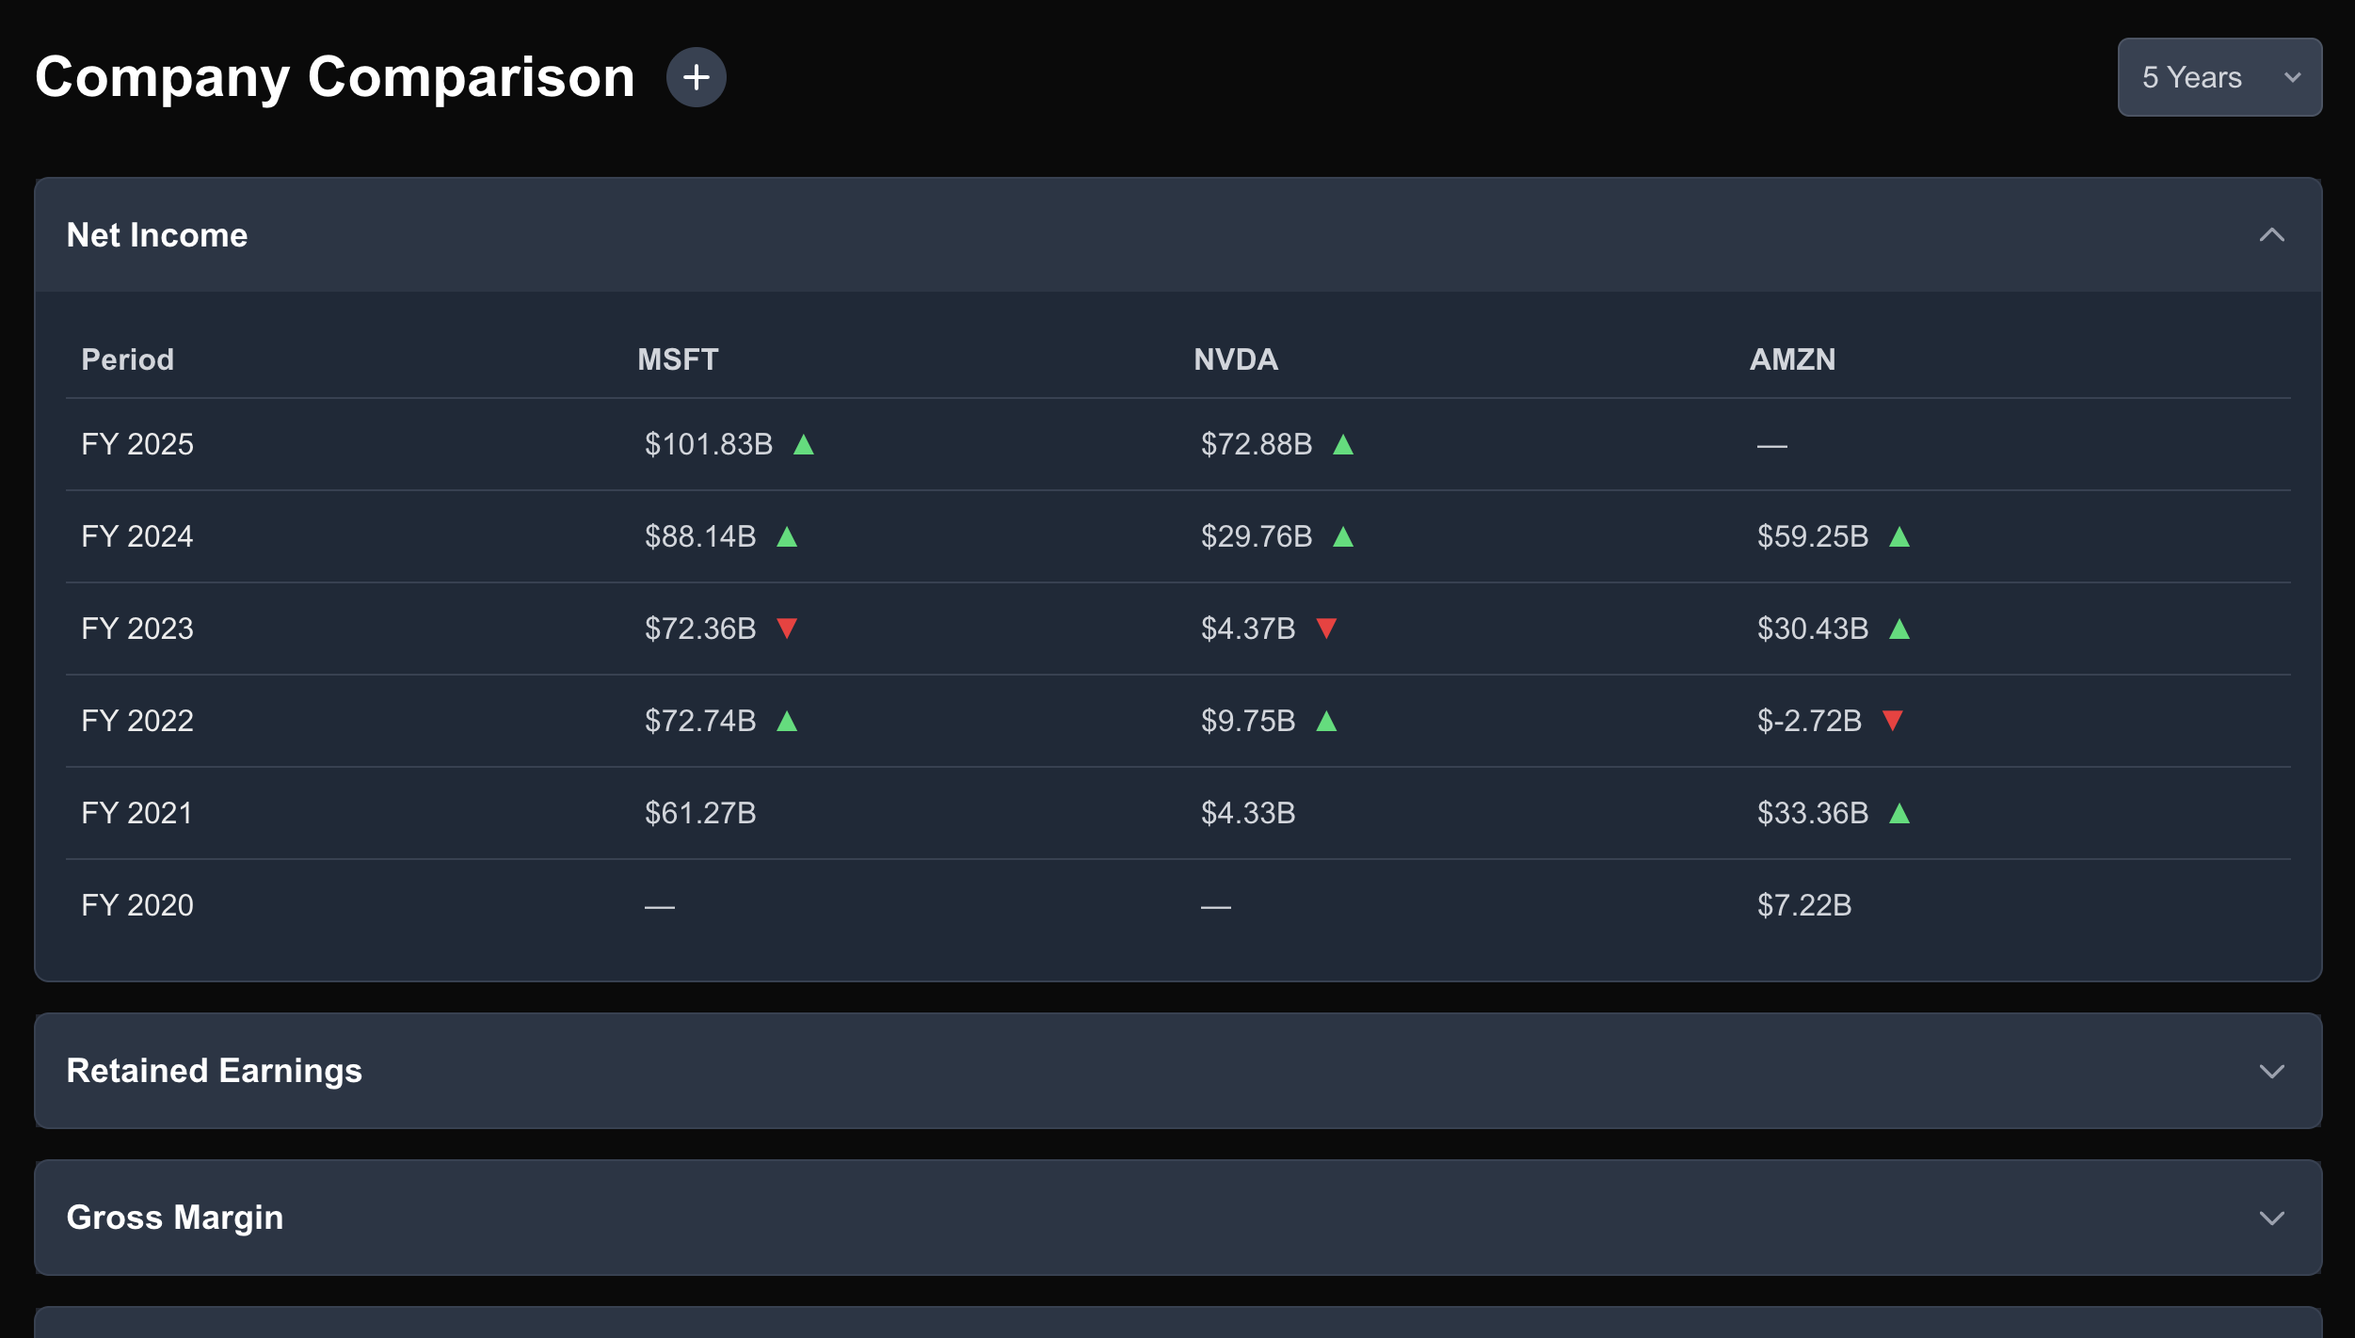
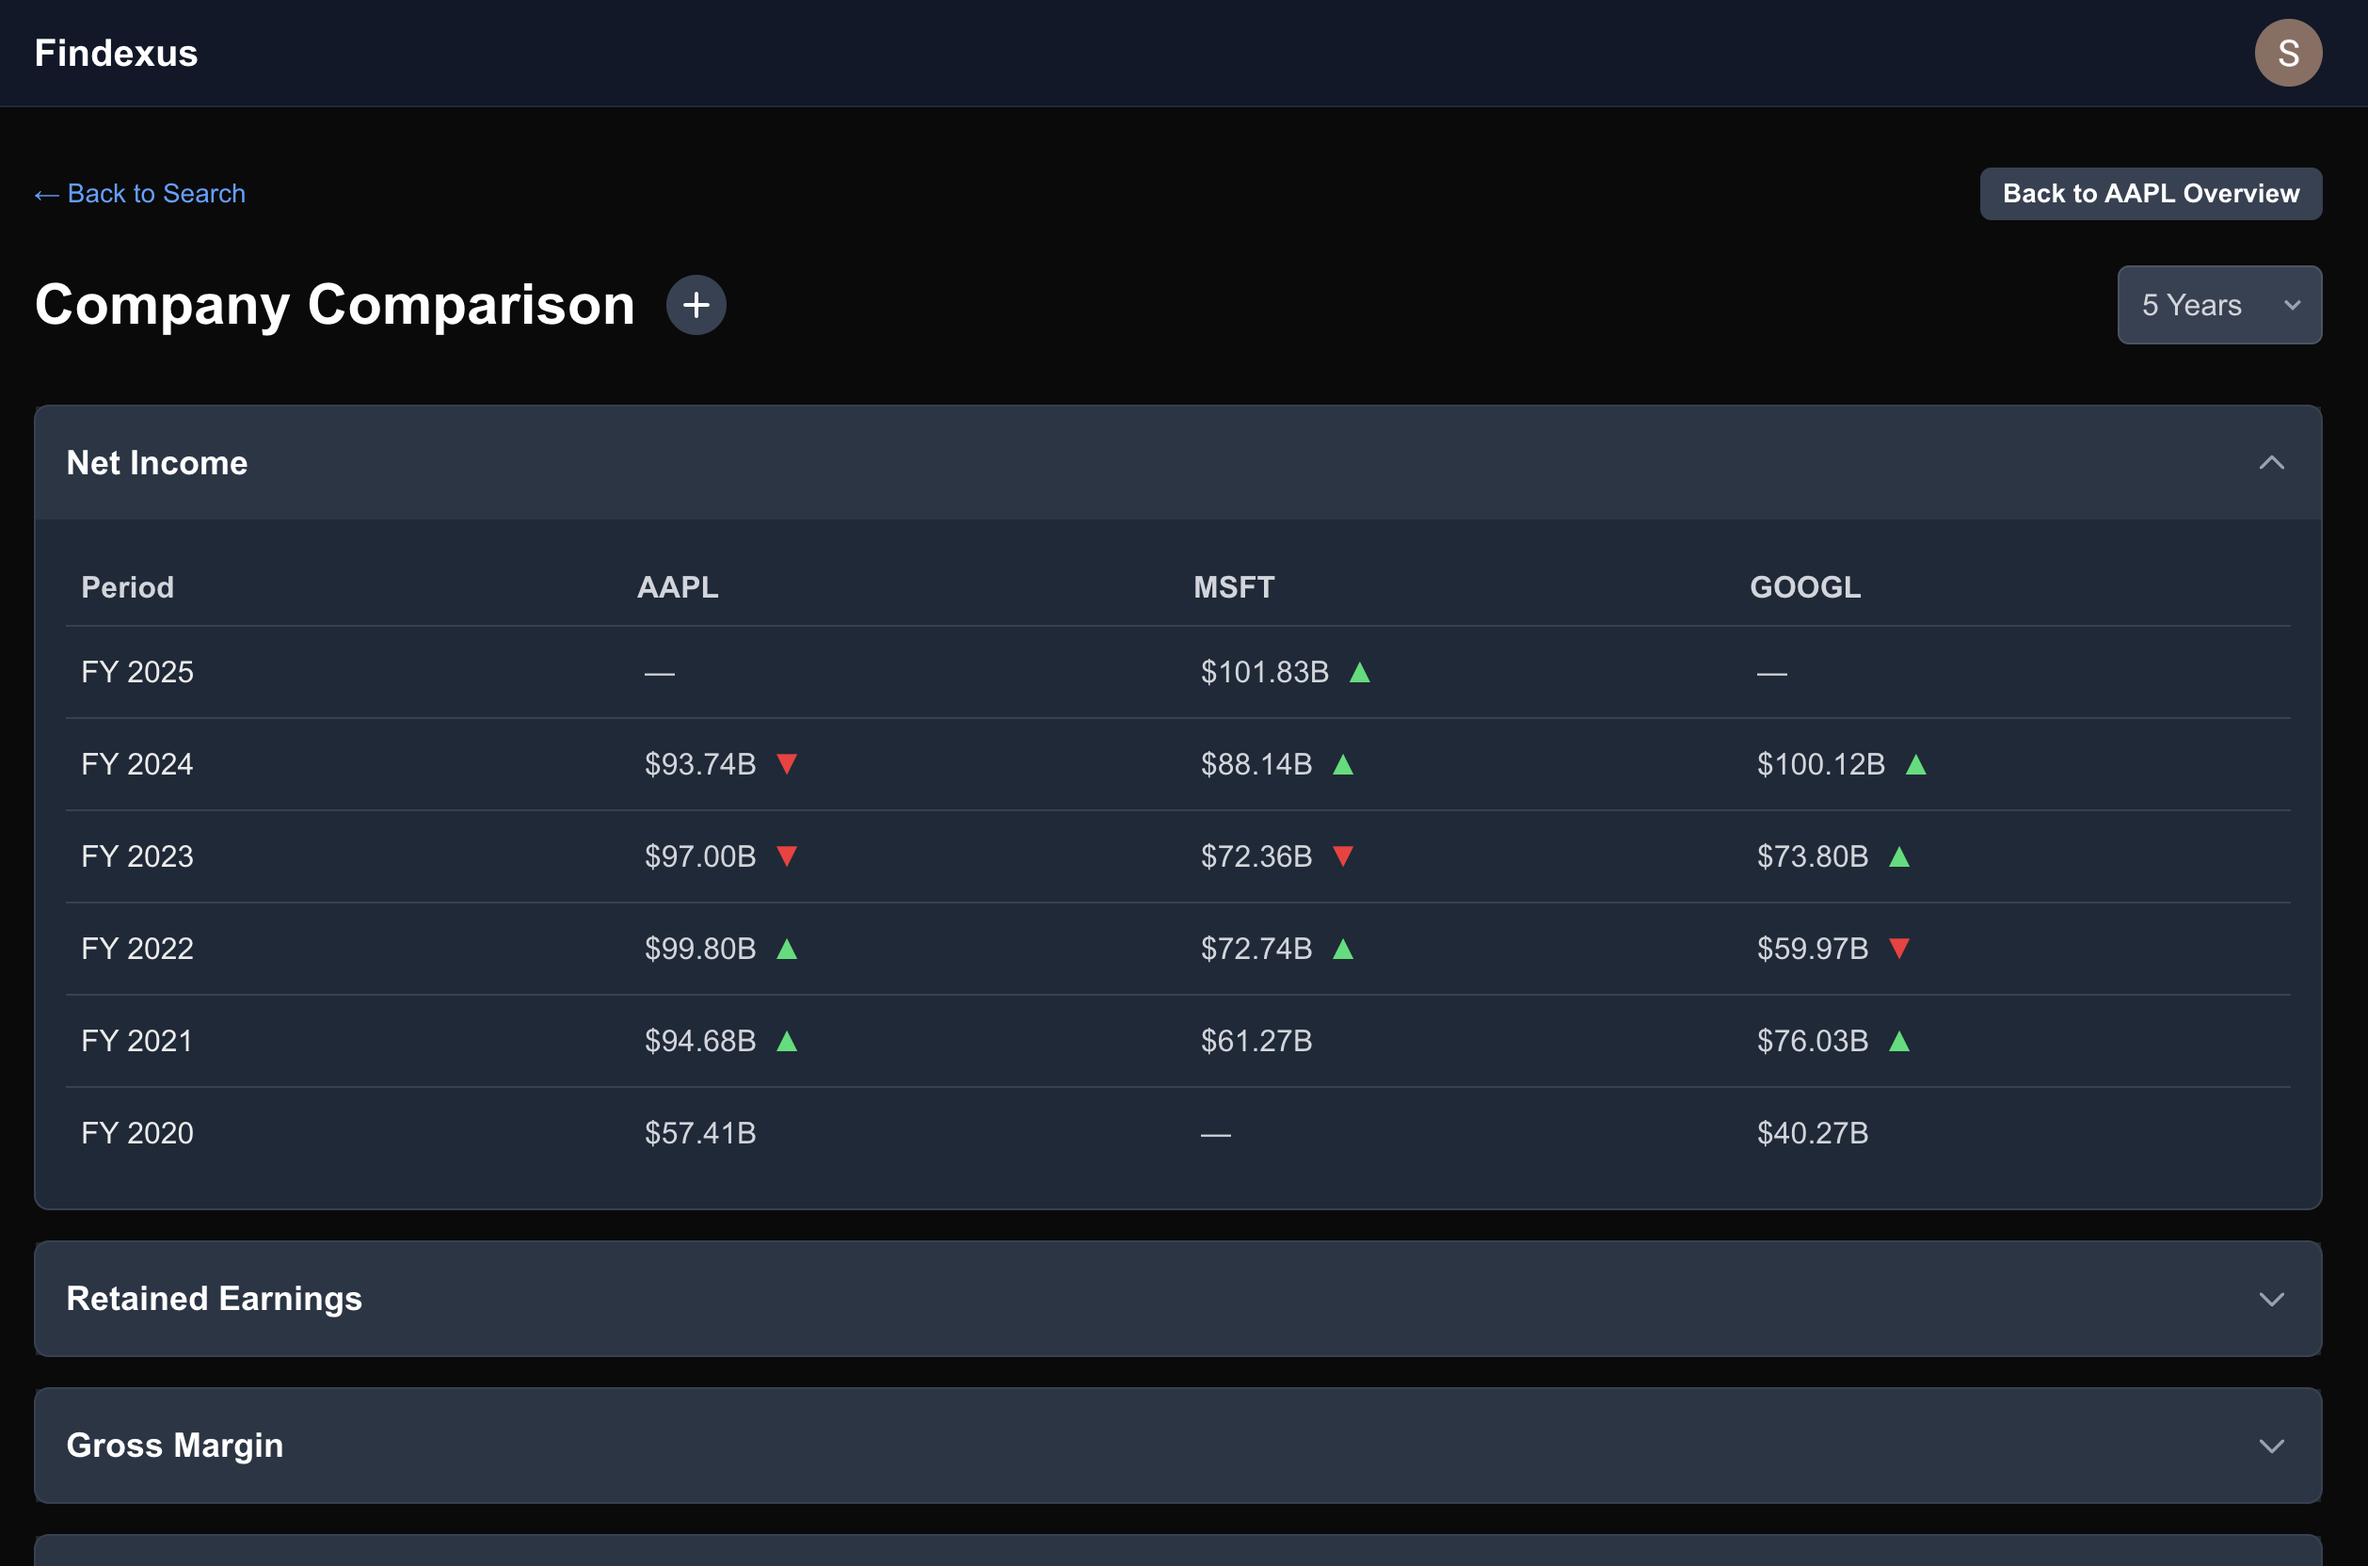
unnec

diff --git a/client/src/components/DisclaimerBanner.tsx b/client/src/components/DisclaimerBanner.tsx
@@ -1,19 +1,17 @@
 'use client';
 
-// This component no longer needs its own state hooks.
-
 interface DisclaimerBannerProps {
-    show: boolean; // NEW: The parent now tells this component whether to be visible.
+    show: boolean; // The parent now tells this component whether to be visible
     onAcknowledge: () => void;
 }
 
 export default function DisclaimerBanner({ show, onAcknowledge }: DisclaimerBannerProps) {
-    // If the parent says not to show, render nothing.
+    // If the parent says not to show, render nothing
     if (!show) {
         return null;
     }
 
-    // The handleClose function is simpler now, it just calls the parent's function.
+    // The handleClose function is simpler now, it just calls the parent's function
     const handleClose = () => {
         onAcknowledge();
     };
@@ -25,8 +23,9 @@ export default function DisclaimerBanner({ show, onAcknowledge }: DisclaimerBann
                     <p>
                         <strong className="font-semibold text-white">Disclaimer:</strong> Data is obtained from public SEC filings.
                     While we strive for accuracy, this information is for informational purposes only and may contain inaccuracies or
-                    omissions due to errors while obtaining the information. Common errors are showing quarterly numbers instead of annual. This is also NOT telling you what to invest in, nor is it investment advice.
+                    omissions due to errors while obtaining the information. This is also NOT telling you what to invest in, nor is it investment advice.
                     Always verify information and conduct your own research before making any financial decisions.
+                    A quick heads-up: This is a free service. If the app hasn't been used in 15 minutes, it may take up to a minute to 'wake up' and load your first results. After that, everything will be much faster. Thanks for your patience!
                     </p>
                 </div>
                 <button 

diff --git a/client/src/components/AboutModal.tsx b/client/src/components/AboutModal.tsx
@@ -48,8 +48,10 @@ export default function AboutModal({ isOpen, onClose }: AboutModalProps) {
                     <p>
                         <b>DISCLAIMER: </b> Data is obtained from public SEC filings.
                     While we strive for accuracy, this information is for informational purposes only and may contain inaccuracies or
-                    omissions due to errors while obtaining the information. Common errors are showing quarterly numbers instead of annual, especially around/before 2019 (but most of the ratios still are somewhat accurate). This is also NOT telling you what to invest in, nor is it investment advice.
+                    omissions due to errors while obtaining the information. This is also NOT telling you what to invest in, nor is it investment advice.
                     Always verify information and conduct your own research before making any financial decisions.
+                    <br></br><br></br>
+                    A quick heads-up: This is a free service. If the app hasn't been used in 15 minutes, it may take up to a minute to 'wake up' and load your first results. After that, everything will be much faster. Thanks for your patience!
                     </p>
                     <h3 className="text-lg font-semibold text-slate-100">Motivation</h3>
                     <p>

diff --git a/client/src/components/ContactModal.tsx b/client/src/components/ContactModal.tsx
@@ -49,12 +49,10 @@ export default function ContactModal({ isOpen, onClose, userEmail }: ContactModa
                     </button>
                 </div>
                 <form onSubmit={handleSubmit} className="space-y-4">
-                    {/* Display the logged-in user's email as read-only text */}
                     <div>
                         <p className="text-sm text-gray-400">
                             Your message will be sent from: <span className="font-medium text-gray-200">{userEmail || '...'}</span>
                         </p>
-                        {/* Add a hidden input to submit the email to Formspree */}
                         <input type="hidden" name="email" value={userEmail || ''} />
                     </div>
 

diff --git a/client/src/app/financials/[ticker]/page.tsx b/client/src/app/financials/[ticker]/page.tsx
@@ -62,17 +62,6 @@ export default function FinancialsPage({ params }: { params: Promise<{ ticker: s
     return () => document.removeEventListener("mousedown", handleClickOutside);
   }, [financialsRef]);
 
-  // const fetchWithAuth = async (url: string) => {
-  //   if (!session) throw new Error("Not authenticated");
-    
-  //   const res = await fetch(url, {
-  //     headers: {
-  //       'Authorization': `Bearer ${session.access_token}`
-  //     }
-  //   });
-  //   if (!res.ok) throw new Error((await res.json()).detail);
-  //   return res.json();
-  // };
   const fetchWithAuth = async (url: string) => {
     if (!session) throw new Error("Not authenticated");
     

diff --git a/api/models.py b/api/models.py
@@ -1,7 +1,7 @@
 from pydantic import BaseModel
 from typing import List, Dict, Any
 
-# --- Pydantic Response Models ---
+# Pydantic Response Models
 class FinancialResponse(BaseModel):
     company_info: Dict[str, Any]
     periods: List[str]
